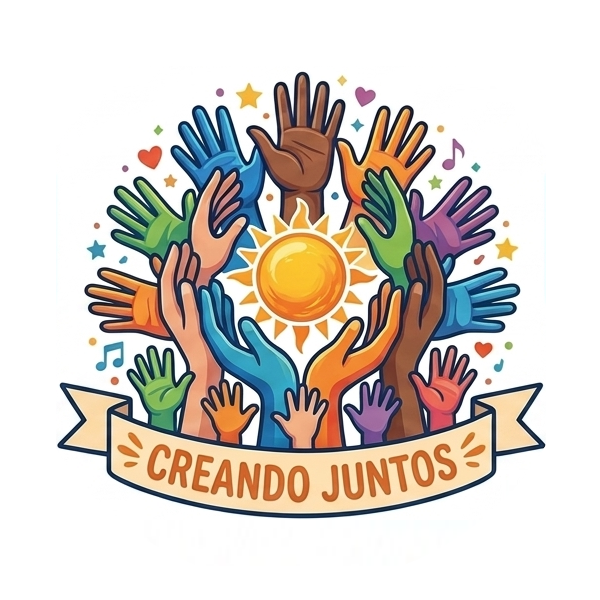
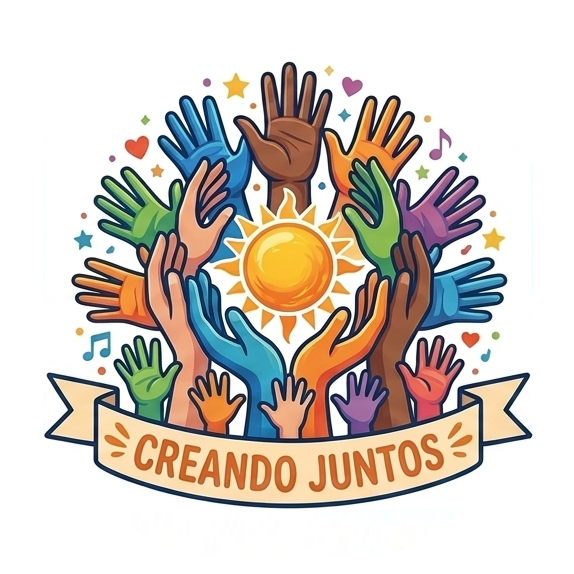
Confirmar

diff --git a/index.html b/index.html
@@ -4,7 +4,7 @@
   <meta charset="UTF-8">
   <meta name="viewport" content="width=device-width, initial-scale=1.0">
   <link rel="icon" type="image/png" href="icono_min.png">
-  <title>Mi Aplicación</title>
+  <title>La Coope Artistica</title>
   <style>
     /* Estilos para que el iframe ocupe el 100% de la pantalla sin bordes */
     html, body {